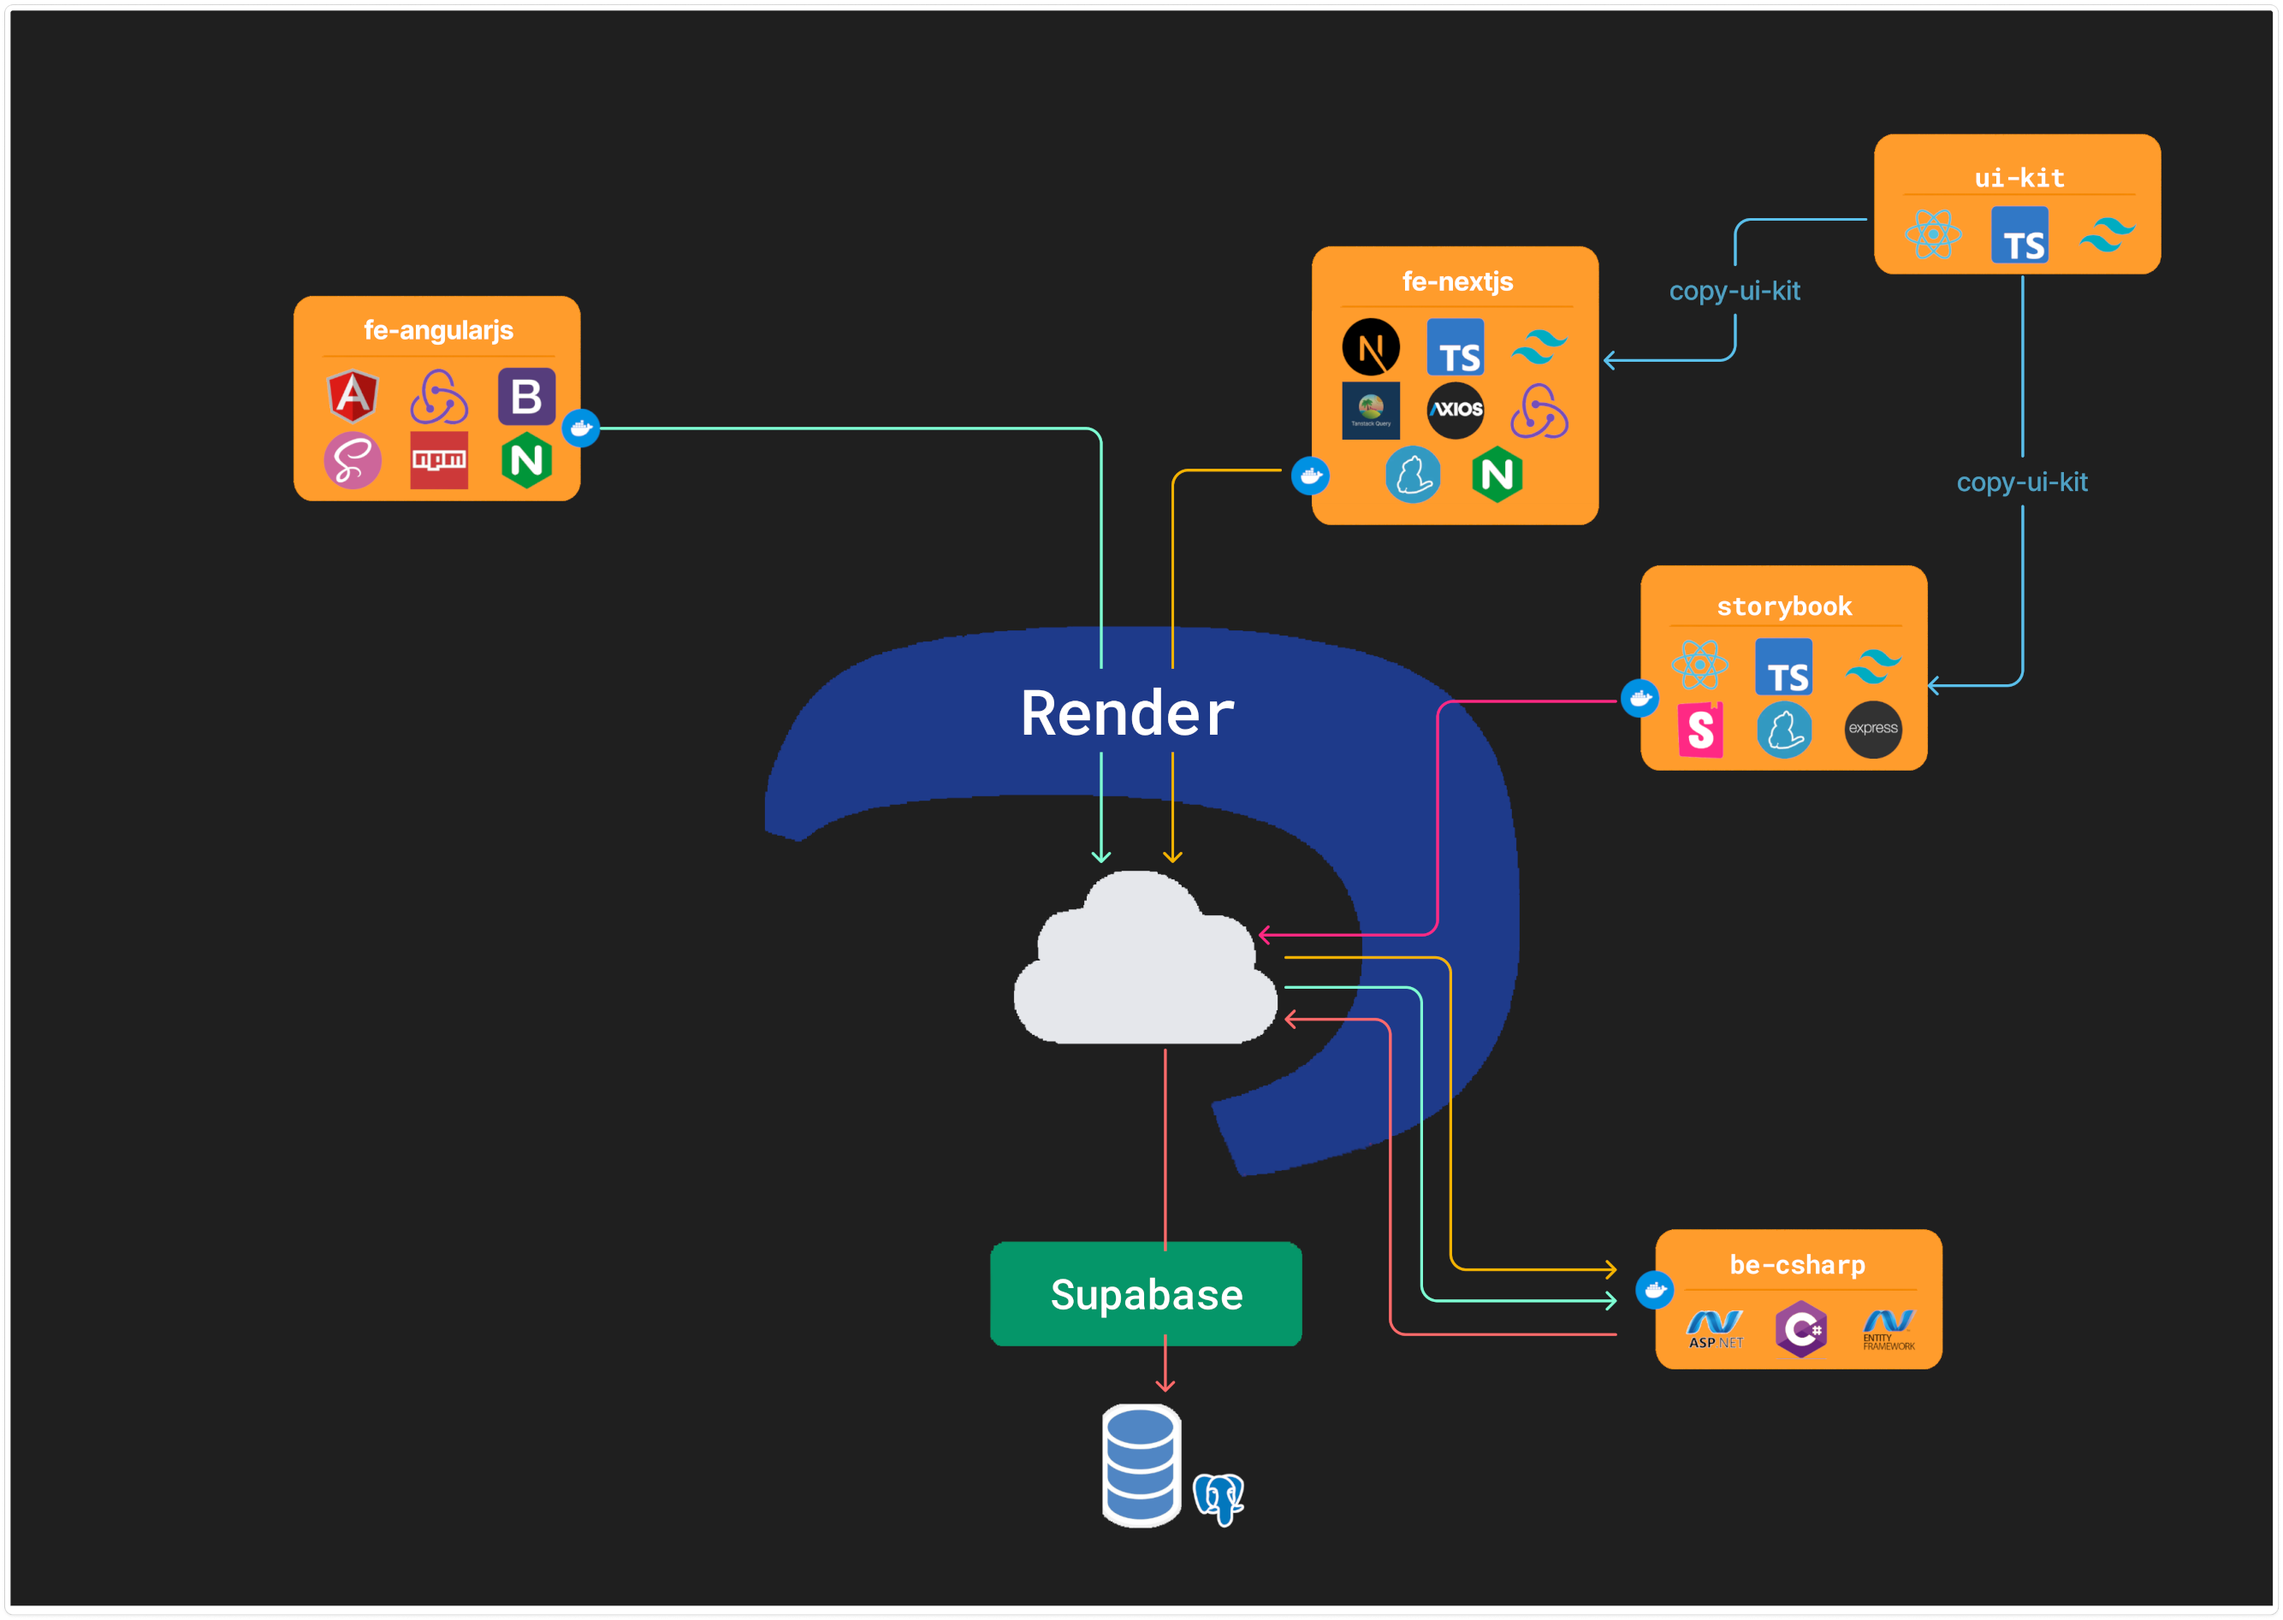
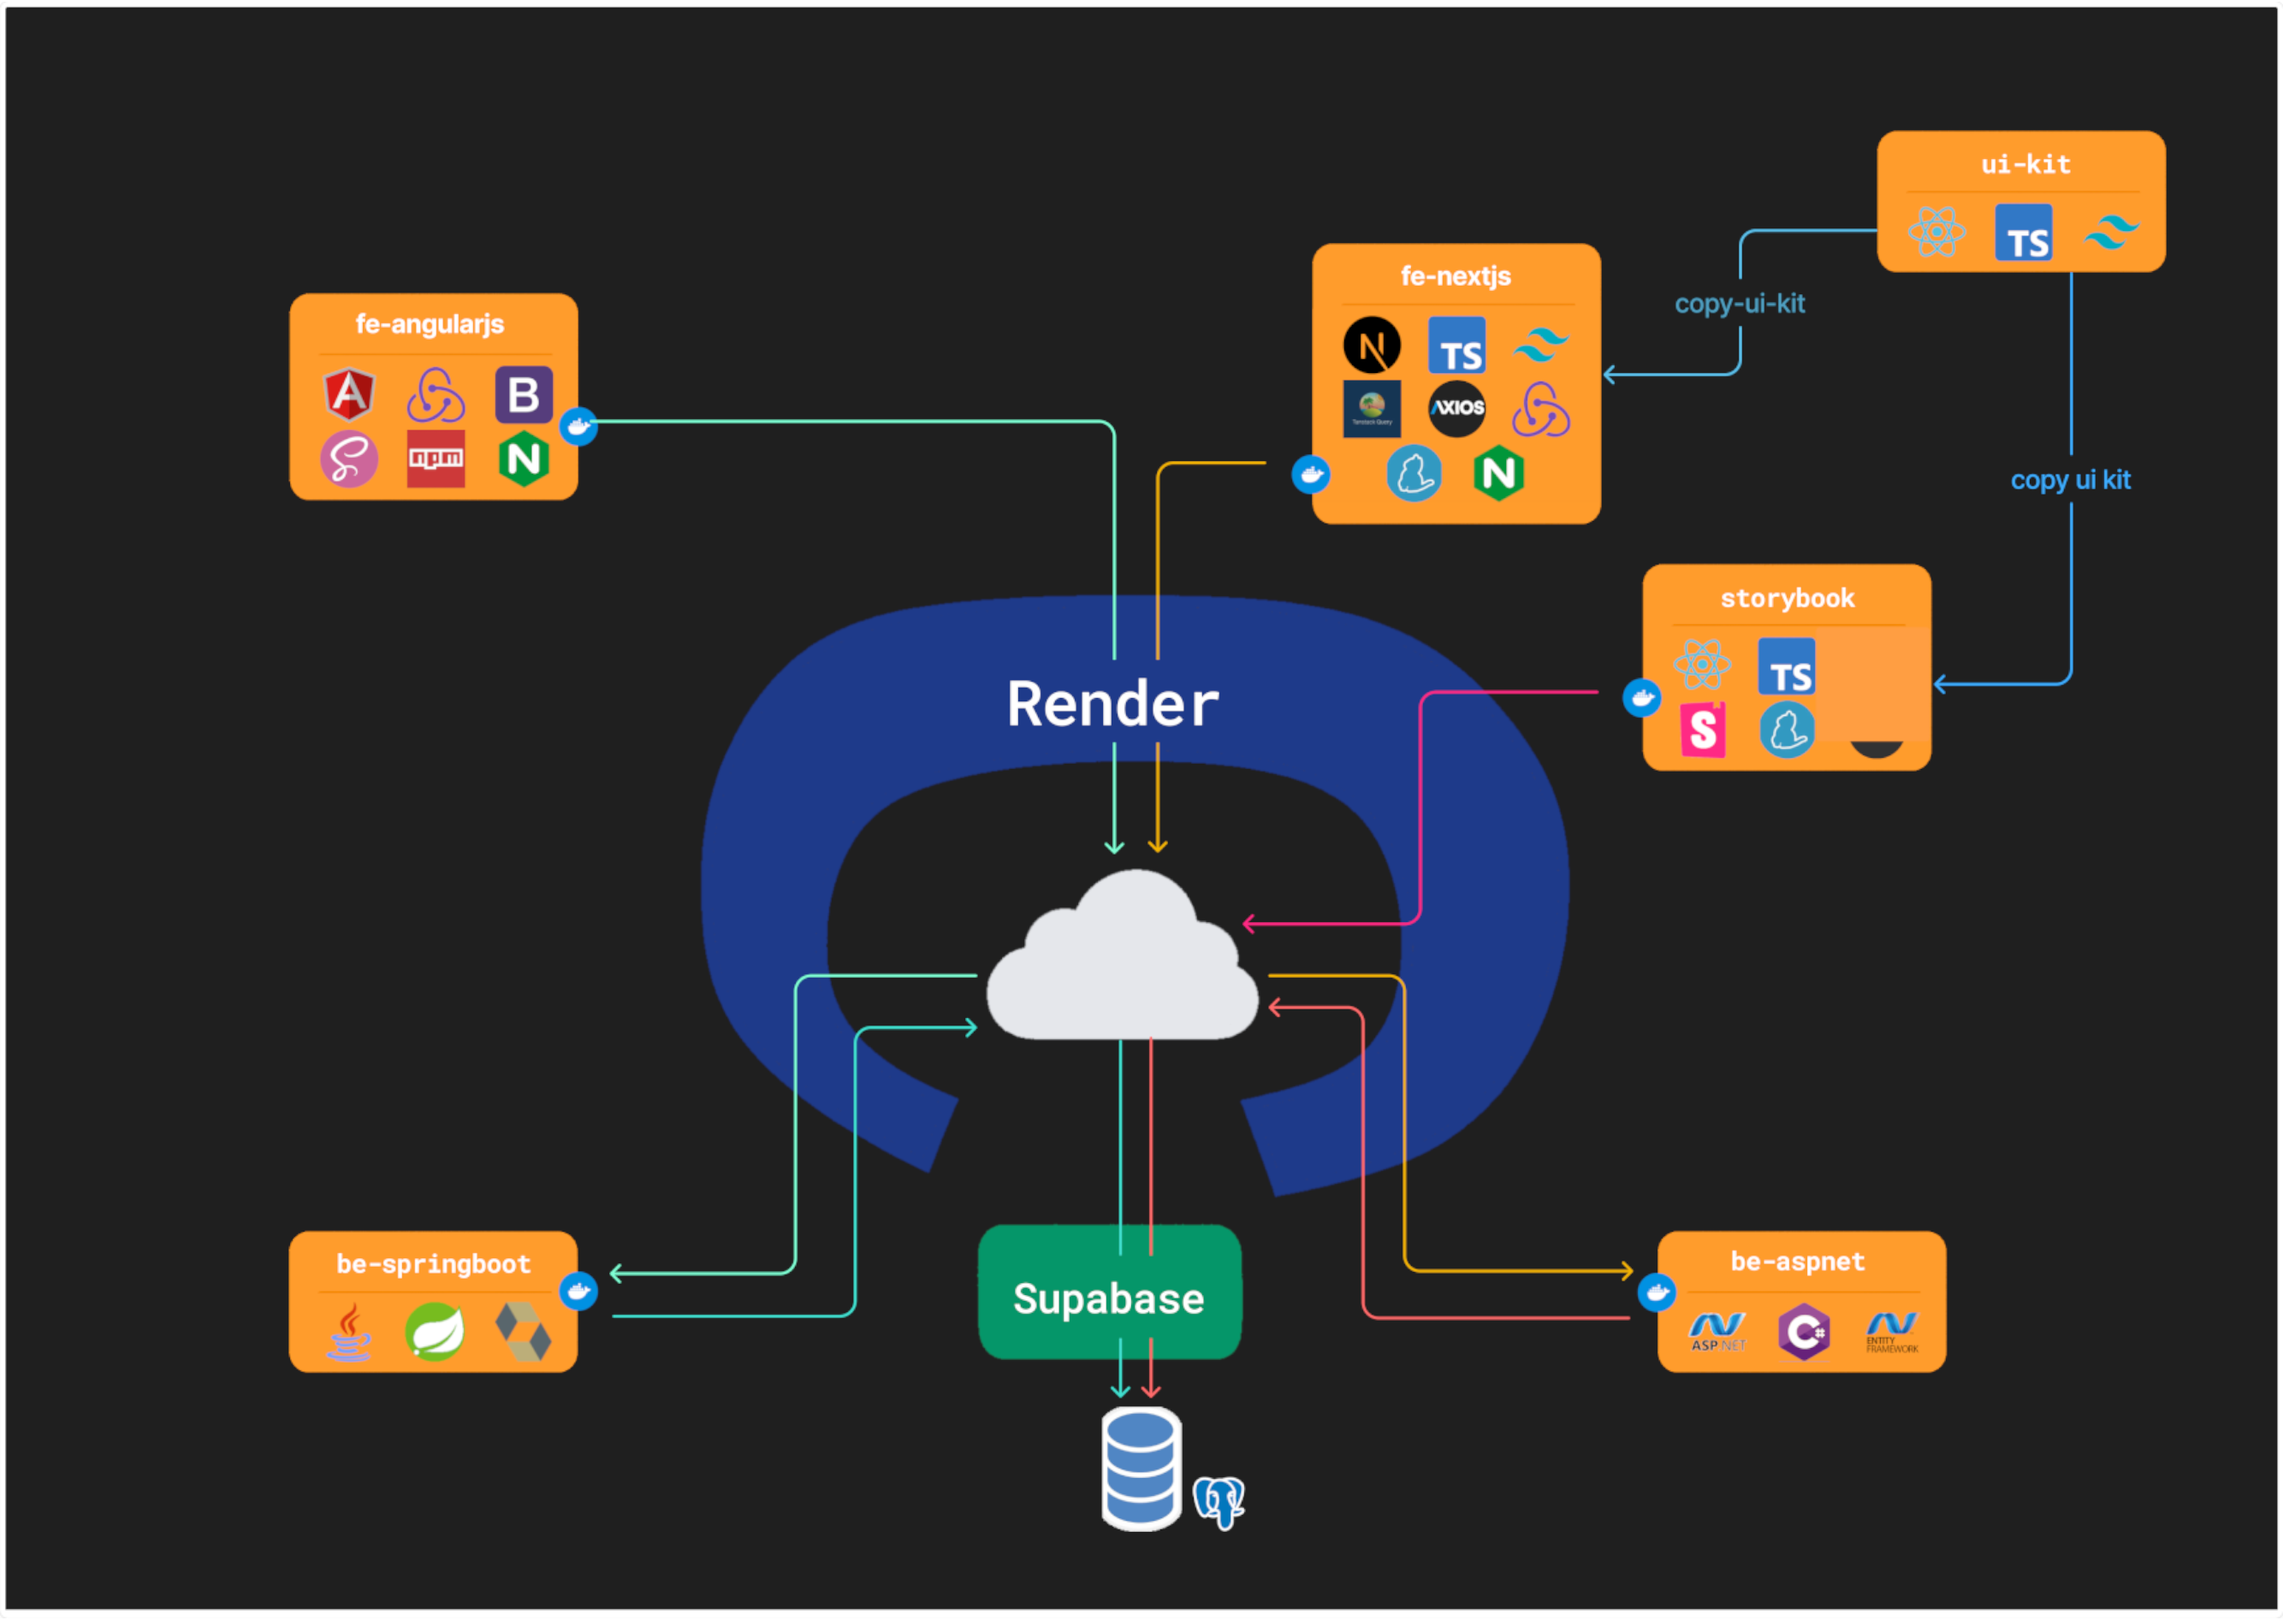
Updated architecture and aspnet be rename

diff --git a/src/index.js b/src/index.js
@@ -168,12 +168,12 @@ const initPortfolio = async () => {
     ),
     projectTemplate(
       "project7",
-      "/assets/images/todolist-be-csharp.png",
+      "/assets/images/todolist-be-aspnet.png",
       {
         readme:
           "https://github.com/AleDeP10/TodoList/tree/main/backend-csharp/README.md",
         repo: "https://github.com/AleDeP10/TodoList/tree/main/backend-csharp",
-        live: "https://todolist-be-csharp.onrender.com/",
+        live: "https://todolist-be-aspnet.onrender.com/",
       },
       ["ASP.NET", "C#", "Entity Framework", "Swagger"],
       labels
